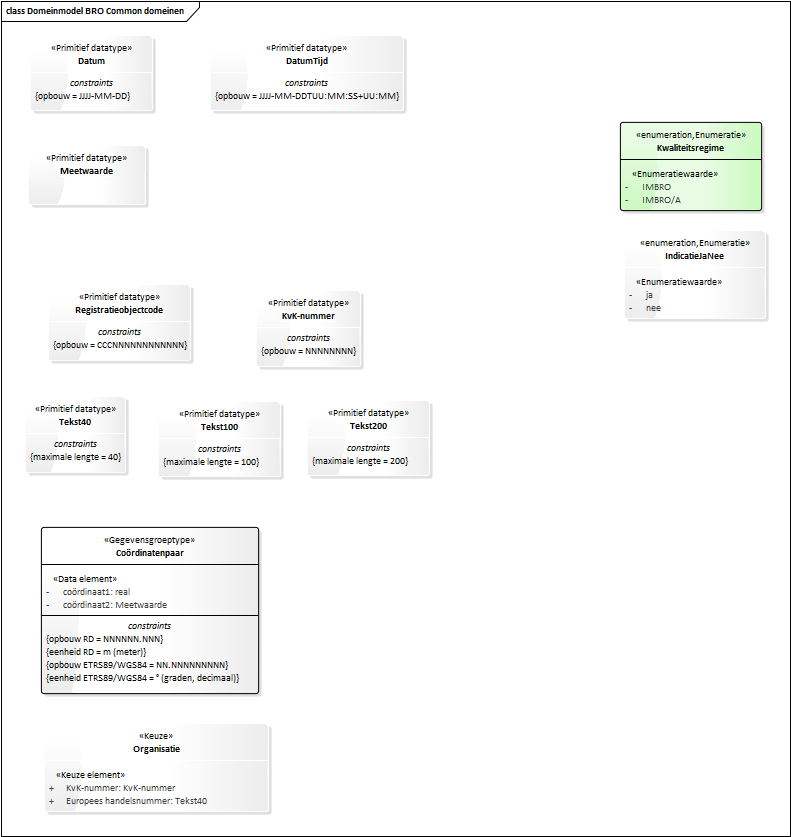
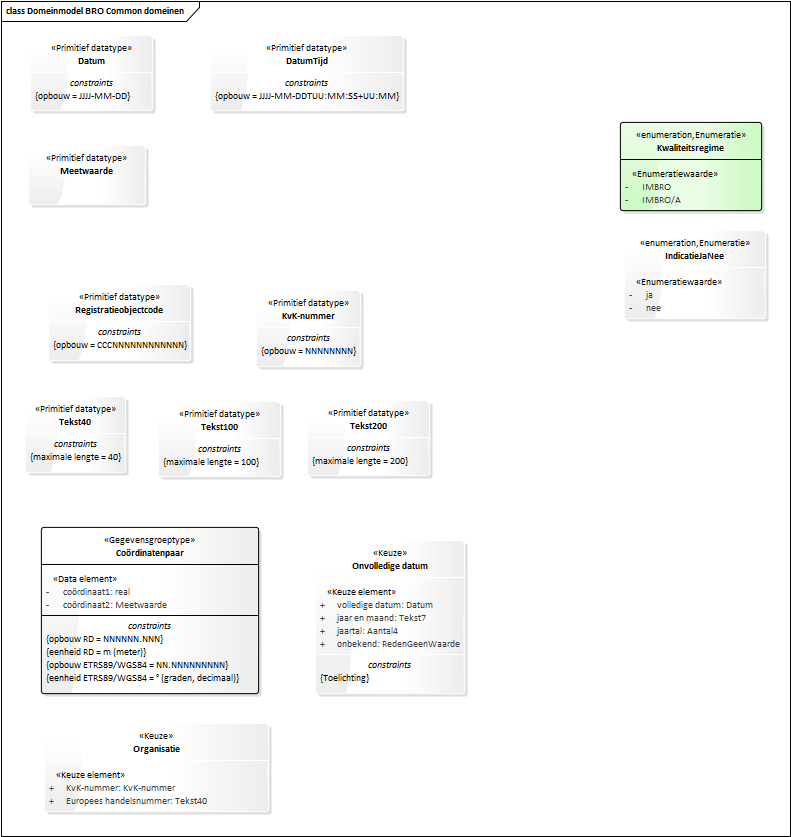
Conceptualmodel-GeotechnischbooronderzoekBHR-GT-1.0-0-20180713-20181003-093143

Changed region(s): [[0.3944, 0.6523, 0.6068, 0.8387]]

diff --git a/data/BHR-GT-cat.html b/data/BHR-GT-cat.html
@@ -1,10 +1,10 @@
 <h2>Catalogus</h2>
 <p class="note" title="Over deze catalogus">
    Deze catalogus is automatisch samengesteld op basis van het UML model 
-   "Geotechnisch booronderzoek (BHR-GT)" door Imvertor 1.47.2 op October 2, 2018 at 09:55:07.
+   "Geotechnisch booronderzoek (BHR-GT)" door Imvertor 1.47.2 op October 3, 2018 at 07:31:40.
    <br>
    Wanneer je technische fouten of onvolkomenheden aantreft, geef dit dan door aan <i></i> en geef de code 
-   <i>"Conceptualmodel-GeotechnischbooronderzoekBHR-GT-1.0-0-20180713-20181002-115509"</i> door. 
+   <i>"Conceptualmodel-GeotechnischbooronderzoekBHR-GT-1.0-0-20180713-20181003-093143"</i> door. 
    
 </p>
 <section id="">
